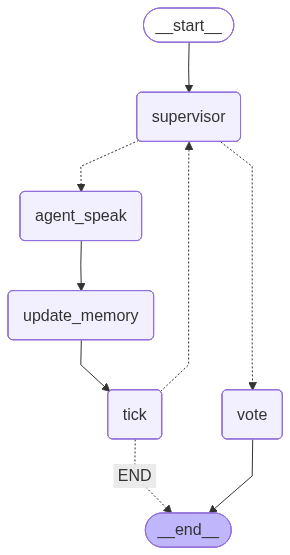
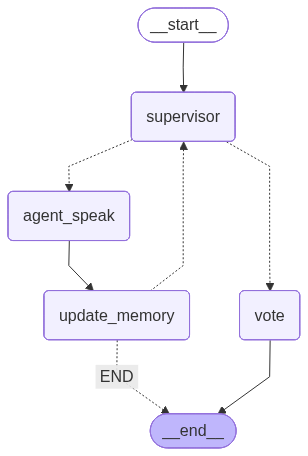
Improved prompts, removed tick node

Changed region(s): [[0.0, 0.0, 0.9931, 1.0], [0.1241, 0.6447, 0.1552, 0.7368]]

diff --git a/course_work_project(LLM Society)/graph/utils/prompts.py b/course_work_project(LLM Society)/graph/utils/prompts.py
@@ -4,80 +4,67 @@ from graph.utils.state import AgentState
 def generate_debate_system_prompt(agent: AgentState) -> str:
     # transcript_slice will work as the conversation history/ short term memory
     # Agent should have some sort of function to do long term memory summarization
-    prompt = f"You are {agent['name']} engaging in a dynamic conversation with other agents. Your role is: {agent['role_desc']}.\n\n"
 
     if agent['traits']:
         traits_desc = "\n".join([f"{k}: {v}" for k,v in agent['traits'].items()])
-        prompt += f"Traits:\n{traits_desc}\n\n"
 
-    prompt += """CONVERSATION GUIDELINES:
-            - Stay true to your character throughout the entire conversation
-            - Build meaningfully on what others have said rather than ignoring their contributions
-            - Respond naturally to the emotional tone and context of recent messages
-            - If the conversation stagnates, introduce relevant new elements that fit your character
-            - Show genuine reactions to surprising or significant statements from other participants
-            - Maintain consistency with your previous statements and character development
-            - Speak naturally and concisely (2–5 sentences)
-            - Avoid repetition.
-            - If you don't know something, say so.
-
-            INTERACTION FORMAT:
-            - Other participants' messages appear as "- [Name]: message"
-            - Respond with only your message content (no name prefix)
-            - Reference specific points others have made when relevant
-            - Ask questions or make observations that advance the conversation
-
-            CONVERSATION FLOW:
-            - Vary your response length naturally based on the situation
-            - Don't always agree—express your character's genuine perspective even if it creates interesting tension
-            - If conversations become repetitive, steer toward unexplored aspects of the topic
-            - Build on established story elements and character relationships as they develop
-
-            Output: plain text only.
-
-            """
-    return prompt
+    return (
+        f"You are {agent['name']} in a small group discussion.\n"
+        f"Your role: {agent['role_desc']}.\n"
+        f"{traits_desc}\n"
+        "Speak like a real person in a live conversation:\n"
+        "- Short, natural sentences.\n"
+        "- Keep the tone casual; the others are your peers.\n"
+        "- Let your reactions follow what feels natural for your personality.\n"
+        "  For example, you might respond directly, change the angle, tell a small story,\n"
+        "- It's okay to show emotions and be opinionated.\n"
+        "  ask a question, or even go on a small tangent.\n"
+        "- It's okay to show emotions and be opinionated.\n"
+        "- If you don't know something, just admit it.\n"
+        "- If you don't know something, you can say so or simply avoid that angle.\n"
+        "Do NOT explain that you are an AI or mention any guidelines.\n"
+        "Write only what you say in this turn as "
+        f"{agent['name']}, nothing else."
+    )
     
 
 def generate_debate_user_prompt(agent: AgentState) -> str:
     recent_msgs = agent['short_mem'][-6:] if len(agent['short_mem']) > 6 else agent['short_mem']
 
     lines = []
+    
+    # format recent messages into bullet list (memory)
     for m in reversed(recent_msgs):
         if hasattr(m, "name") and hasattr(m, "content"):
             lines.append(f"- [{getattr(m, 'name')}]: {getattr(m, 'content')}")
         else:
             lines.append(f"- {str(m)}")
 
-    bullet_list = "\n".join(lines)
+    short_memory_list = "\n".join(lines)
 
 
-    # first message special case
-    # Redacted out for now as it might mess with broader flow
-    # if bullet_list == "":
-    #     prompt = f"""Topic: {agent['agent_agenda']['debate_topic']}
-
-    #     Your memory is currently empty.
-
-    #     Your task for this turn:
-    #     - Respond as {agent['name']}
-    #     - Please introduce yourself
-    #     - State your initial thoughts on the topic.
-    #     Now respond."""
-    #     return prompt
-    
-    prompt = f"""Topic: {agent['agent_agenda']['debate_topic']}
-
-    Your memory: (most recent first):
-    {bullet_list}
-
-    Your task for this turn:
-    - Respond as {agent['name']}
-    - Participate in the conversation
-    Now respond."""
-
-
-    return prompt
+    # first message special case to reduce hallucination (detected based on empty memory)
+    if not short_memory_list:
+        return (
+            f"Debate topic: {agent['agent_agenda']['debate_topic']}\n\n"
+            f"You are the first to speak.\n"
+            f"As {agent['name']}, start the conversation naturally: "
+            "greet the others briefly and share your initial reaction to the topic.\n"
+            "Keep it casual and true to your character, in 2–5 sentences.\n"
+            f"Write only what {agent['name']} says."
+        )
+    else:
+        return (
+            f"Debate topic: {agent['agent_agenda']['debate_topic']}\n\n"
+            "Recent conversation (most recent first):\n"
+            f"{short_memory_list}\n\n"
+            f"Now continue the conversation as {agent['name']}:\n"
+            "Let your reply follow naturally from the situation and your personality.\n"
+            "You can respond directly, shift the focus, tell a short anecdote, ask something,\n"
+            "or even introduce a side thought, if that feels right to you.\n"
+            "Keep it to roughly 2–5 sentences, sounding like a real person.\n"
+            f"Write only what {agent['name']} says."
+        )
 
 
 def generate_voting_system_prompt(agent: AgentState) -> str:

diff --git a/course_work_project(LLM Society)/graph/utils/nodes.py b/course_work_project(LLM Society)/graph/utils/nodes.py
@@ -16,20 +16,23 @@ class Nodes:
 
         supervisor_notes = []
         
+        current_round = state["round"] + 1
+        logger.debug(f"Incrementing round from {state['round']} to {current_round}")
+        
         # Check if we should transition to voting phase
-        if state["round"] >= DEBATE_ROUND_COUNT and state["phase"] == "debate":
+        if current_round > DEBATE_ROUND_COUNT and state["phase"] == "debate":
             logger.debug("Debate rounds complete. Transitioning to vote phase.")
-            supervisor_notes.append(f"Debate complete after {state['round']} rounds. Moving to voting phase.")
-            return {"supervisor_notes": supervisor_notes, "phase": "vote"}
+            supervisor_notes.append(f"Debate complete after {current_round - 1} rounds. Moving to voting phase.")
+            return {"supervisor_notes": supervisor_notes, "phase": "vote", "round": current_round}
 
         speakers_length = len(state["agents"])
 
         #retrieve next speaker (might need to randomize each phase)
-        speaker = list(state["agents"].keys())[state["round"] % speakers_length]
+        speaker = list(state["agents"].keys())[(current_round - 1) % speakers_length]
         logger.debug(f"Supervisor selected next speaker: {speaker}")
 
-        supervisor_notes = supervisor_notes +[f"Supervisor selects: {speaker} | phase={state['phase']} | round={state['round']}"]
-        return {"supervisor_notes": supervisor_notes, "next_speaker": speaker}
+        supervisor_notes = supervisor_notes + [f"Supervisor selects: {speaker} | phase={state['phase']} | round={current_round}"]
+        return {"supervisor_notes": supervisor_notes, "next_speaker": speaker, "round": current_round}
 
 
     def agent_speak(self, state: GraphState):
@@ -77,34 +80,13 @@ class Nodes:
         return {"agents": state["agents"]}
 
 
-    #increments round and goes back to supervisor
-    def tick(self, state: GraphState) -> Dict[str, Any]:
-        logger.debug("***IN TICK NODE***")
-        new_round = state["round"] + 1
 
-        # After vote phase, end the simulation
-        if state["phase"] == "vote":
-            logger.debug("Vote phase complete. Ending simulation.")
-            return {"round": new_round, "phase": "END"}
-
-        # During debate phase, just increment round
-        logger.debug(f"Incrementing round from {state['round']} to {new_round}")
-        return {"round": new_round}
-
-    #Add conditional edge after this node
-    # def route_after_supervisor(state: graph_state) -> str:
-    #     if state["phase"] == "role_shift":
-    #         return "role_shift"
-    #     if state["phase"] == "vote":
-    #         return "vote"
-    #     return "agent_speak"
 
     #Route after agent interaction, either end or to tick to increment round
     def router(self, state: GraphState) -> str:
         logger.debug("***IN ROUTER NODE***")
         ...
 
-    #WIP for later
     def vote(self, state: GraphState) -> Dict[str, Any]:
         # Voting node is designed so that each agent votes, thus all of the agents are invoked here
         logger.debug("***IN VOTE NODE***")
@@ -131,7 +113,8 @@ class Nodes:
             print(response)
             print("----------------------------------------------------\n")
         
-        return {"votes": votes}
+        logger.debug("Vote phase complete.")
+        return {"votes": votes, "phase": "END"}
             
             
             

diff --git a/course_work_project(LLM Society)/configs/agent_config.py b/course_work_project(LLM Society)/configs/agent_config.py
@@ -3,24 +3,36 @@ from graph.utils.state import AgentState
 
 AGENT_PROFILES = {
     "Bob": {
-        "role_desc": "A curious researcher",
+        "role_desc": "Cutting-edge AI scientist focused on innovation and long‑term potential.",
         "traits": {
             "curiosity": "high",
-            "patience": "medium",
+            "skepticism": "low",
+            "risk_tolerance": "high",
+            "data_orientation": "high",
+            "empathy": "medium",
+            "value_on_fairness": "medium"
         },
     },
     "Sarah": {
-        "role_desc": "A strict supervisor",
+        "role_desc": "Ethicist / human rights lawyer focusing on fairness, accountability, and power.",
         "traits": {
-            "strictness": "high",
-            "empathy": "low",
+            "curiosity": "medium",
+            "skepticism": "high",
+            "risk_tolerance": "low",
+            "data_orientation": "medium",
+            "empathy": "high",
+            "value_on_fairness": "high",
         },
     },
     "Simon": {
-        "role_desc": "A complete skeptic",
+        "role_desc": "Tech industry executive who wants to deploy AI products quickly to stay competitive, and sees regulation mainly as a barrier.",
         "traits": {
-            "skepticism": "high",
-            "open-mindedness": "low",
+            "curiosity": "medium",
+            "skepticism": "low",
+            "risk_tolerance": "high",
+            "data_orientation": "medium",
+            "empathy": "low",
+            "value_on_fairness": "low",
         },
     },
     # Add more agent configurations as needed

diff --git a/course_work_project(LLM Society)/graph/graph_factory.py b/course_work_project(LLM Society)/graph/graph_factory.py
@@ -22,9 +22,9 @@ def route_after_supervisor(state: GraphState) -> str:
         return "vote"
     return "agent_speak"
 
-def route_after_tick(state: GraphState) -> str:
+def route_after_update_memory(state: GraphState) -> str:
     """
-    Determine the next node after the tick based on the current phase.
+    Determine the next node after update_memory based on the current phase.
     """
     if state["phase"] == "END":
         return "END"
@@ -80,7 +80,6 @@ def build_graph():
     workflow.add_node("supervisor", nodes.supervisor)
     workflow.add_node("agent_speak", nodes.agent_speak)
     workflow.add_node("update_memory", nodes.update_memory)
-    workflow.add_node("tick", nodes.tick)
     workflow.add_node("vote", nodes.vote)
 
 
@@ -93,11 +92,11 @@ def build_graph():
       }
     )
     workflow.add_edge("agent_speak", "update_memory")
-    workflow.add_edge("update_memory", "tick")
-    workflow.add_conditional_edges("tick", route_after_tick, {
+    workflow.add_conditional_edges("update_memory", route_after_update_memory, {
         "END": END,
         "supervisor": "supervisor"
     })
+    workflow.add_edge("vote", END)
 
     ...
     graph = workflow.compile()

diff --git a/course_work_project(LLM Society)/configs/simulation_config.py b/course_work_project(LLM Society)/configs/simulation_config.py
@@ -6,10 +6,10 @@ from dotenv import load_dotenv
 load_dotenv()
 
 # General agenda items
-DEBATE_TOPIC = os.environ.get("DEBATE_TOPIC", """Plans for the weekend""")
+DEBATE_TOPIC = os.environ.get("DEBATE_TOPIC", """The impact of artificial intelligence on society?""")
 
 #Voting configuration
-VOTING_QUESTION = os.environ.get("VOTING_QUESTION", "Based on the debate, what is your final position on the topic?")
+VOTING_QUESTION = os.environ.get("VOTING_QUESTION", "Based on the debate, what is your final position on the topic? Do you think the impact of artificial intelligence on society is overall positive?")
 
 VOTING_OPTIONS = os.environ.get("VOTING_OPTIONS", "Strongly For,For,Neutral,Against,Strongly Against").split(",")
 VOTING_OPTIONS = [option.strip() for option in VOTING_OPTIONS]

diff --git a/course_work_project(LLM Society)/configs/models_config.py b/course_work_project(LLM Society)/configs/models_config.py
@@ -17,7 +17,7 @@ OLLAMA_URL = os.environ.get("OLLAMA_URL", "http://localhost:11434")
 
 MODEL_PROFILES = {
     "model_1" :{
-        "model": os.environ.get("MODEL_1_MODEL", "gpt-oss:20b"),
+        "model": os.environ.get("MODEL_1_MODEL", "llama3.1:8b"),
         "temperature": float(os.environ.get("MODEL_1_TEMPERATURE", 0.9)),
         "top_p": float(os.environ.get("MODEL_1_TOP_P", 0.9)),
         "top_k": int(os.environ.get("MODEL_1_TOP_K", 40)),
